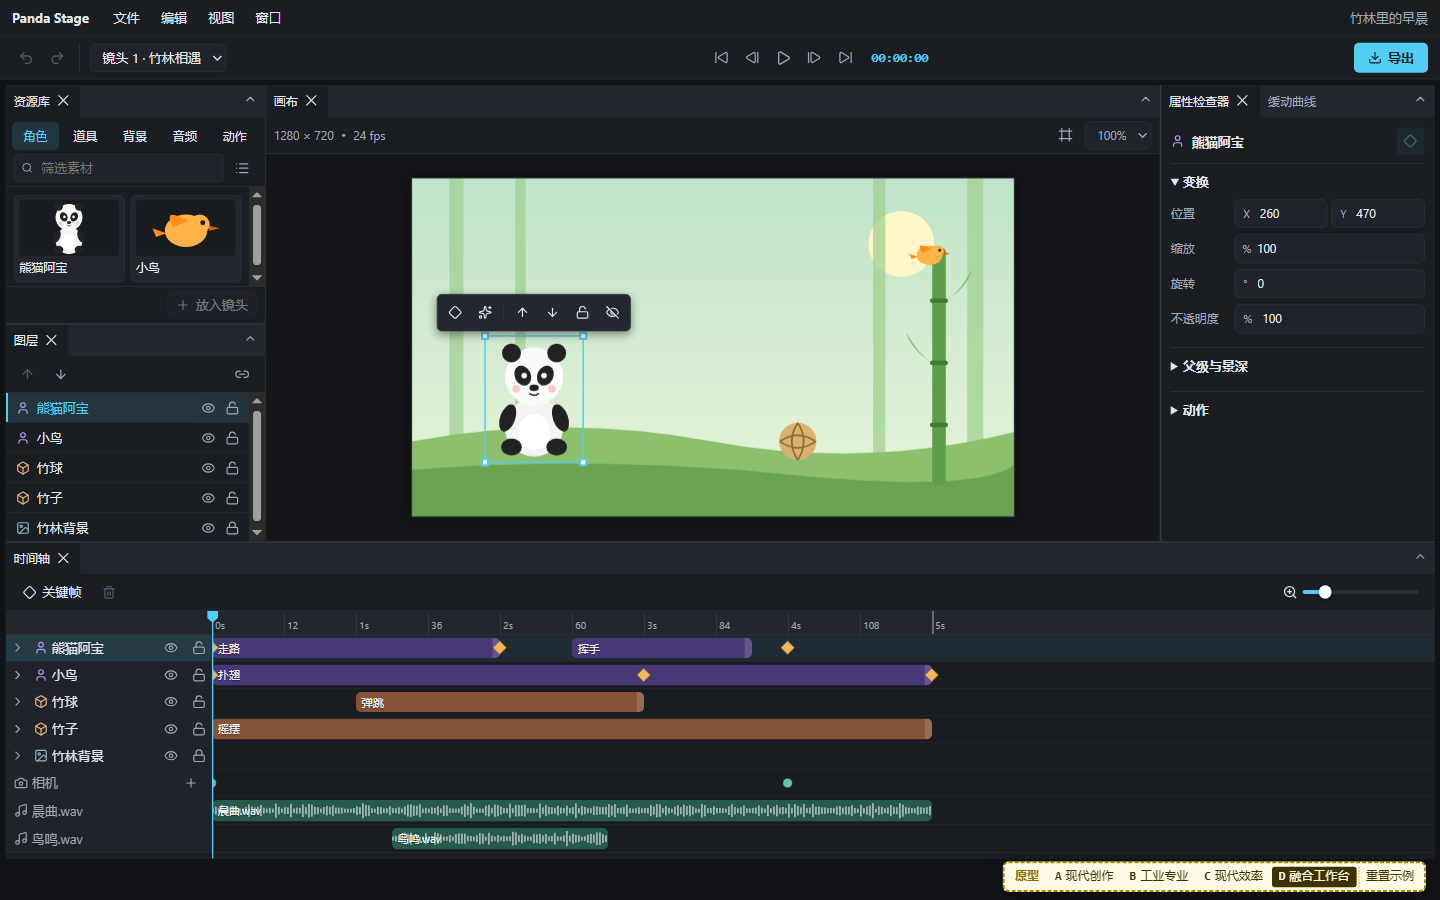
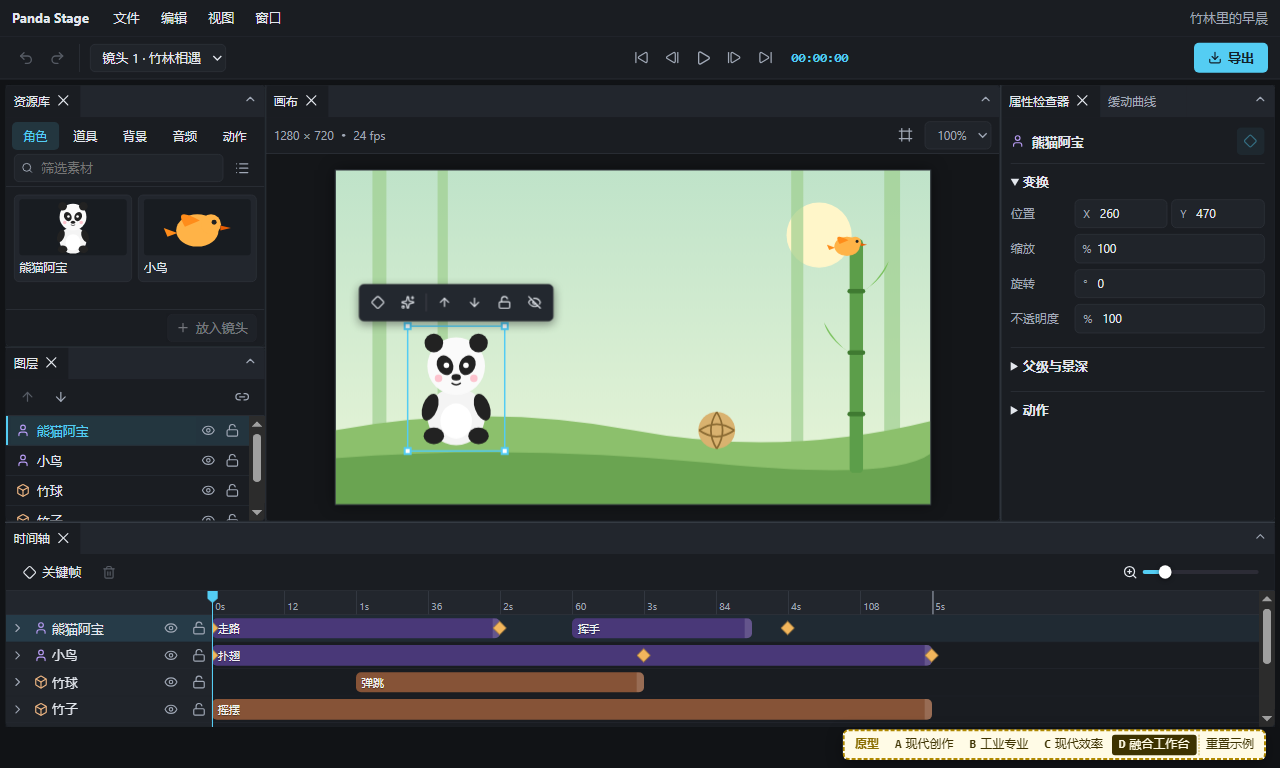
fix(reshell-proto): prioritize canvas in D workspace (#1392)

diff --git a/prototypes/reshell-ui2/src/variants/d/VariantD.tsx b/prototypes/reshell-ui2/src/variants/d/VariantD.tsx
@@ -1,10 +1,10 @@
-import { useEffect, useRef, useState } from 'react';
+import { createContext, useContext, useEffect, useRef, useState } from 'react';
 import { DockviewReact, type DockviewApi, type DockviewReadyEvent, type IDockviewHeaderActionsProps, type IDockviewPanelProps } from 'dockview-react';
 import * as DropdownMenu from '@radix-ui/react-dropdown-menu';
 import * as Tooltip from '@radix-ui/react-tooltip';
 import { ChevronDown, ChevronUp, Frame, Pause, Play, Redo2, SkipBack, SkipForward, StepBack, StepForward, Undo2 } from 'lucide-react';
 import { fmtTime, FPS } from '../../core/model';
-import { Stage, type OverlayRect } from '../../core/Stage';
+import { Stage, type OverlayRect, type StagePan } from '../../core/Stage';
 import { actions, currentLayer, currentShot, getState, useStore } from '../../core/store';
 import { ContextToolbar } from '../a/VariantA';
 import { ExportDialogC } from '../c/VariantC';
@@ -16,8 +16,12 @@ import { Timeline } from './Timeline';
 import './d.css';
 
 const LAYOUT_KEY = 'reshell-proto-d-layout-v1';
+const TIMELINE_FRACTION = 0.32;
+const LAYERS_FRACTION = 0.40;
+const StagePanContext = createContext<{ current: StagePan } | null>(null);
 
 function Canvas() {
+  const panRef = useContext(StagePanContext);
   const [safe, setSafe] = useState(false);
   const [overlay, setOverlay] = useState<OverlayRect | null>(null);
   const zoom = useStore((s) => s.viewZoom);
@@ -32,7 +36,7 @@ function Canvas() {
       </select>
     </div>
     <div className="vd-canvas">
-      <Stage theme={{ backdrop: '#141619', frameStroke: '#343940', accent: '#53ccf4', safe }} onOverlay={setOverlay} />
+      <Stage theme={{ backdrop: '#141619', frameStroke: '#343940', accent: '#53ccf4', safe }} onOverlay={setOverlay} panRef={panRef} padding={16} />
       {overlay && !playing && <ContextToolbar r={overlay} fusion />}
     </div>
   </div>;
@@ -50,7 +54,7 @@ const panels = {
 type PanelId = keyof typeof panels;
 const panelIds = Object.keys(panels) as PanelId[];
 const compactPanels = ['assets', 'layers', 'timeline'];
-type FoldState = { folded?: boolean; restoreHeight?: number };
+type FoldState = { folded?: boolean; restoreFraction?: number; restoreHeight?: number };
 
 function saveLayout(api: DockviewApi) {
   try { localStorage.setItem(LAYOUT_KEY, JSON.stringify(api.toJSON())); } catch { /* Storage can be unavailable. */ }
@@ -64,12 +68,21 @@ function FoldControl({ activePanel, panels: groupPanels, containerApi }: IDockvi
     return () => subscription?.dispose();
   }, [activePanel]);
   if (!activePanel) return null;
-  const { folded, restoreHeight } = fold;
+  const { folded, restoreFraction, restoreHeight } = fold;
   const vertical = groupPanels.length === 1 && activePanel.api.location.type === 'grid'
     && compactPanels.includes(activePanel.id);
   return <IconButton label={folded ? '展开面板' : '折叠面板'} pressed={!!folded} onClick={() => {
-    activePanel.api.updateParameters({ folded: !folded, restoreHeight: !folded && vertical ? activePanel.api.group.api.height : undefined });
-    if (vertical) activePanel.api.setSize({ height: folded ? restoreHeight ?? 220 : 34 });
+    activePanel.api.updateParameters({
+      folded: !folded,
+      restoreFraction: !folded && vertical ? activePanel.api.group.api.height / containerApi.height : undefined,
+      restoreHeight: undefined,
+    });
+    if (vertical) {
+      const fraction = restoreFraction ?? TIMELINE_FRACTION;
+      const height = restoreFraction === undefined && restoreHeight !== undefined
+        ? restoreHeight : Math.round(containerApi.height * fraction);
+      activePanel.api.setSize({ height: folded ? height : 34 });
+    }
     saveLayout(containerApi);
   }}>{folded ? <ChevronDown size={14} /> : <ChevronUp size={14} />}</IconButton>;
 }
@@ -86,20 +99,23 @@ function addPanel(api: DockviewApi, id: PanelId, options?: { position?: Paramete
 }
 
 function defaultLayout(api: DockviewApi) {
+  const timelineHeight = Math.round(api.height * TIMELINE_FRACTION);
+  const layersHeight = Math.round((api.height - timelineHeight) * LAYERS_FRACTION);
   api.clear();
   addPanel(api, 'stage');
+  // Split off the timeline before creating the columns inside the upper region.
+  addPanel(api, 'timeline', { position: { direction: 'below' }, initialHeight: timelineHeight });
   addPanel(api, 'assets', { position: { referencePanel: 'stage', direction: 'left' }, initialWidth: 260 });
-  addPanel(api, 'layers', { position: { referencePanel: 'assets', direction: 'below' }, initialHeight: 190 });
+  addPanel(api, 'layers', { position: { referencePanel: 'assets', direction: 'below' }, initialHeight: layersHeight });
   addPanel(api, 'props', { position: { referencePanel: 'stage', direction: 'right' }, initialWidth: 275 });
   addPanel(api, 'curve', { position: { referencePanel: 'props', direction: 'within' } });
   api.getPanel('props')?.api.setActive();
-  addPanel(api, 'timeline', { position: { direction: 'below' }, initialHeight: 318 });
-  api.getPanel('layers')?.api.setSize({ height: 218 });
   api.getPanel('stage')?.api.setActive();
 }
 
 export default function VariantD() {
   const dock = useRef<DockviewApi>(null);
+  const panRef = useRef<StagePan>({ x: 0, y: 0 });
   const [shown, setShown] = useState<PanelId[]>([]);
   const [exportOpen, setExportOpen] = useState(false);
   const project = useStore((s) => s.project);
@@ -191,8 +207,10 @@ export default function VariantD() {
         </div>
       </header>
       <div className="vd-dock">
-        <DockviewReact className="dockview-theme-dark" components={components} onReady={onReady}
-          rightHeaderActionsComponent={FoldControl} disableFloatingGroups />
+        <StagePanContext.Provider value={panRef}>
+          <DockviewReact className="dockview-theme-dark" components={components} onReady={onReady}
+            rightHeaderActionsComponent={FoldControl} disableFloatingGroups proportionalLayout />
+        </StagePanContext.Provider>
       </div>
       {toast && !toast.startsWith('已放入：') && !toast.startsWith('已添加音频：') && <div className="proto-toast vd-toast" role="status">{toast}</div>}
     </div>

diff --git a/prototypes/reshell-ui2/src/variants/d/d.css b/prototypes/reshell-ui2/src/variants/d/d.css
@@ -78,18 +78,19 @@ html[data-variant="D"] .vc-dialog { --accent: #54cdf3; --accent-fg: #13212a; bor
 }
 .vd .dv-groupview { border: 1px solid #2b3038; border-radius: 5px; overflow: hidden; }
 .vd .dv-tab { font-size: 12px; }
-.vd-content { height: 100%; }
+.vd-content { height: 100%; min-height: 0; overflow: hidden; }
 .vd-panel { height: 100%; min-height: 0; display: flex; flex-direction: column; background: #1a1d22; }
-.vd-strip { display: flex; align-items: center; gap: 5px; padding: 4px 8px; border-bottom: 1px solid var(--line); }
+.vd-strip { display: flex; flex-shrink: 0; align-items: center; gap: 5px; padding: 4px 8px; border-bottom: 1px solid var(--line); }
 .vd-spacer { flex: 1; }
 .vd-footer { justify-content: flex-end; border-top: 1px solid var(--line); border-bottom: 0; }
 .vd-footer .vd-button { background: #252a31; border-color: var(--line); }
-.vd-categories { display: flex; flex-wrap: wrap; padding: 5px 6px 0; gap: 2px; }
+.vd-library { overflow: auto; }
+.vd-categories { display: flex; flex-shrink: 0; flex-wrap: wrap; padding: 5px 6px 0; gap: 2px; }
 .vd-categories .vd-button { flex: 1; padding-inline: 5px; font-size: 12px; }
 .vd-search { min-width: 0; flex: 1; display: flex; align-items: center; gap: 6px;
   padding: 0 7px; min-height: 28px; border: 1px solid var(--line); border-radius: 5px; background: var(--card2); color: var(--muted); }
 .vd-search input { min-width: 0; width: 100%; background: transparent; border: 0; color: var(--text); }
-.vd-media { flex: 1; min-height: 0; overflow: auto; padding: 8px; align-content: start; display: grid; gap: 6px; }
+.vd-media { flex: 1; min-height: 48px; overflow: auto; padding: 8px; align-content: start; display: grid; gap: 6px; }
 .vd-media.grid { grid-template-columns: repeat(auto-fit, minmax(min(100%, 89px), 1fr)); }
 .vd-asset { background: #22262d; border: 1px solid var(--line); border-radius: 5px; min-width: 0; text-align: left; font-size: 12px; }
 .vd-asset > span:nth-child(2) { overflow: hidden; text-overflow: ellipsis; white-space: nowrap; min-width: 0; }
@@ -100,7 +101,7 @@ html[data-variant="D"] .vc-dialog { --accent: #54cdf3; --accent-fg: #13212a; bor
 .list .vd-asset { display: flex; align-items: center; gap: 7px; padding: 3px 6px; }
 .list .vd-thumb { width: 26px; height: 26px; flex: none; }
 .vd-asset small { margin-left: auto; color: var(--muted); white-space: nowrap; }
-.vd-scroll, .vd-inspector { overflow: auto; }
+.vd-scroll, .vd-inspector { min-height: 0; overflow: auto; }
 .vd-layer-row { display: flex; align-items: center; min-height: 30px; border-bottom: 1px solid #282d35; padding: 0 5px; }
 .vd-layer-row.on { background: #23343e; box-shadow: inset 2px 0 var(--accent); }
 .vd-layer-row .vd-icon, .vd-track .vd-icon { width: 24px; min-height: 23px; }
@@ -135,13 +136,14 @@ html[data-variant="D"] .vc-dialog { --accent: #54cdf3; --accent-fg: #13212a; bor
   --playhead: #54cdf3; --key: #f2b65c; --bar-r: 5px;
 }
 .vd-timeline .vd-range { flex: 0 0 116px; margin-right: 8px; }
-.vd-timeline .tl { flex: 1; min-height: 0; }
+.vd-timeline .tl { flex: 1 1 0; min-height: 0; min-width: 0; height: auto; overscroll-behavior: contain; }
 .vd-timeline .tl-inner { min-width: 100%; padding-bottom: 4px; }
 .vd-timeline :is(.tl-lane, .tl-ruler-track) { flex: 1; }
 .vd-timeline .tl-tick { border-color: #3b414a; }
 .vd-timeline .tl-bar.on { box-shadow: inset 0 0 0 2px var(--accent); }
 .vd-timeline .tl-key.on { outline: 2px solid var(--accent); }
 .vd-timeline .tl-playhead { z-index: 4; }
+.vd-timeline .tl-playhead i { position: sticky; display: block; left: auto; transform: translateX(-6px); }
 .vd-track { display: flex; align-items: center; gap: 4px; width: 100%; min-width: 0; }
 .vd-track > span { flex: 1; }
 .vd-track-extra { padding: 0 8px; color: var(--muted); }

diff --git a/prototypes/reshell-ui2/src/core/Stage.tsx b/prototypes/reshell-ui2/src/core/Stage.tsx
@@ -7,13 +7,21 @@ import { sampleCamera, sampleTransform, STAGE_H, STAGE_W, uid, type Layer } from
 import { actions, currentShot, useStore } from './store';
 
 export interface StageTheme { backdrop: string; frameStroke: string; accent: string; safe?: boolean }
+export interface StagePan { x: number; y: number }
 export interface OverlayRect { x: number; y: number; w: number; h: number }
 
-export function Stage({ theme, onOverlay, dropAssets = true }: { theme: StageTheme; onOverlay?: (r: OverlayRect | null) => void; dropAssets?: boolean }) {
+export function Stage({ theme, onOverlay, dropAssets = true, panRef, padding = 24 }: {
+  theme: StageTheme; onOverlay?: (r: OverlayRect | null) => void; dropAssets?: boolean;
+  panRef?: { current: StagePan } | null; padding?: number;
+}) {
   const host = useRef<HTMLDivElement>(null);
   const [size, setSize] = useState({ w: 800, h: 450 });
   const [, force] = useState(0);
-  const [pan, setPan] = useState({ x: 0, y: 0 });
+  const [pan, setPan] = useState(() => panRef?.current ?? { x: 0, y: 0 });
+  const updatePan = (next: StagePan) => {
+    if (panRef) panRef.current = next;
+    setPan(next);
+  };
   const shot = useStore(currentShot);
   const time = useStore((s) => s.time);
   const playing = useStore((s) => s.playing);
@@ -33,7 +41,7 @@ export function Stage({ theme, onOverlay, dropAssets = true }: { theme: StageThe
     imgs.forEach((img) => { if (!img.complete) img.addEventListener('load', () => force((n) => n + 1), { once: true }); });
   }, [shot]);
 
-  const fit = Math.max(0.01, Math.min((size.w - 48) / STAGE_W, (size.h - 48) / STAGE_H)) * viewZoom;
+  const fit = Math.max(0.01, Math.min((size.w - padding * 2) / STAGE_W, (size.h - padding * 2) / STAGE_H)) * viewZoom;
   const ox = (size.w - STAGE_W * fit) / 2 + pan.x;
   const oy = (size.h - STAGE_H * fit) / 2 + pan.y;
   const cam = sampleCamera(shot, time);
@@ -97,7 +105,7 @@ export function Stage({ theme, onOverlay, dropAssets = true }: { theme: StageThe
     if (e.button !== 1 && !(e.button === 0 && e.altKey)) return;
     e.preventDefault();
     const x0 = e.clientX - pan.x, y0 = e.clientY - pan.y;
-    const move = (m: PointerEvent) => setPan({ x: m.clientX - x0, y: m.clientY - y0 });
+    const move = (m: PointerEvent) => updatePan({ x: m.clientX - x0, y: m.clientY - y0 });
     const up = () => { window.removeEventListener('pointermove', move); window.removeEventListener('pointerup', up); };
     window.addEventListener('pointermove', move); window.addEventListener('pointerup', up);
   };
@@ -108,7 +116,7 @@ export function Stage({ theme, onOverlay, dropAssets = true }: { theme: StageThe
       className="stage-host"
       style={{ background: theme.backdrop }}
       onPointerDown={startPan}
-      onDoubleClick={(e) => { if (e.target === host.current) { setPan({ x: 0, y: 0 }); actions.setViewZoom(1); } }}
+      onDoubleClick={(e) => { if (e.target === host.current) { updatePan({ x: 0, y: 0 }); actions.setViewZoom(1); } }}
       onDragOver={(e) => dropAssets && e.dataTransfer.types.includes('text/asset') && e.preventDefault()}
       onDrop={(e) => {
         const id = e.dataTransfer.getData('text/asset'); if (!id) return;

diff --git a/prototypes/reshell-ui2/README.md b/prototypes/reshell-ui2/README.md
@@ -23,6 +23,12 @@ pnpm --dir prototypes/reshell-ui2 dev
 - 原型使用同一份模拟项目和示例资源。音频以示例波形呈现，口型轨与真实声音、视频导出缺少示例数据或实现，本轮沿用现有模拟边界。Dockview 体验限单个浏览器窗口。
 - 在 Windows 上用 Playwright 驱动有界面的 Chrome，走查了 1440×900 和 1280×768 工作台，覆盖素材、图层、画布、数值、曲线、时间轴、播放、镜头、模拟导出、四套方案切换与布局恢复。使用 `pnpm --dir prototypes/reshell-ui2 build` 构建。截图与交互来自浏览器原型，Windows Electron 实机验收待产品阶段。
 
+### D 的布局补修（#1392）
+
+D 按工作区实际高度初始化，创作区约占 68%，时间轴约占 32%。左栏再单独分配资源库和图层空间。超过面板容量的素材和轨道在各自面板内滚动。手动拖动后的布局会沿用并记忆，旧版 D 的布局仍可打开。若资源库被压缩或时间轴占比过大，请在「窗口」中选择「恢复默认布局」。
+
+在 Windows Chrome 的 1280×666 视口复现了旧版问题。时间轴和图层区的固定高度挤占了画布和资源库，展开和折叠时间轴时，Konva 实际画面分别约为 187×105 和 686×386。补修后，在 1280×768 下展开时间轴时，实际画面约为 596×335，资源库可浏览素材。已验证 1440×900 和 1280×768 的布局、轨道滚动、停靠、折叠、旧布局恢复及刷新后的记忆。下方 D 截图来自 Windows Chrome 构建预览。
+
 ## A / B / C 对照与供体记录
 
 ### A · 现代创作派（Rive / Figma）
@@ -63,7 +69,7 @@ pnpm --dir prototypes/reshell-ui2 dev
 - **示例素材许可**：`src/core/assets.ts` 中的全部角色、道具、背景矢量图与确定性伪波形均为本原型原创内联 SVG/算法生成，**未引入任何第三方美术或音频文件**，无额外版权负担。
 - **开源供体许可证**：Animora 与 OpenCut Classic 原始 `LICENSE` 全文保留在 `LICENSES/` 目录，npm 依赖包许可（MIT / Apache-2.0）随 `package.json` 记录。
 
-## 代表性截图（1440×900 实机运行采集）
+## 代表性运行截图
 
 > 截图仅作速览，不能代替启动后亲自拖拽画布、时间轴、面板停靠与缓动曲线的实际体验。
 
@@ -72,4 +78,4 @@ pnpm --dir prototypes/reshell-ui2 dev
 | **A · 现代创作派**（Rive / Figma） | ![Variant A](screenshots/variant-a.png) |
 | **B · 工业专业派**（Animate / AE / Resolve） | ![Variant B](screenshots/variant-b.png) |
 | **C · 现代效率派**（CapCut / OpenCut） | ![Variant C](screenshots/variant-c.png) |
-| **D · 融合工作台**（Windows Chrome） | ![Variant D](screenshots/variant-d.png) |
+| **D · 融合工作台**（Windows Chrome，1280×768） | ![Variant D](screenshots/variant-d.png) |
